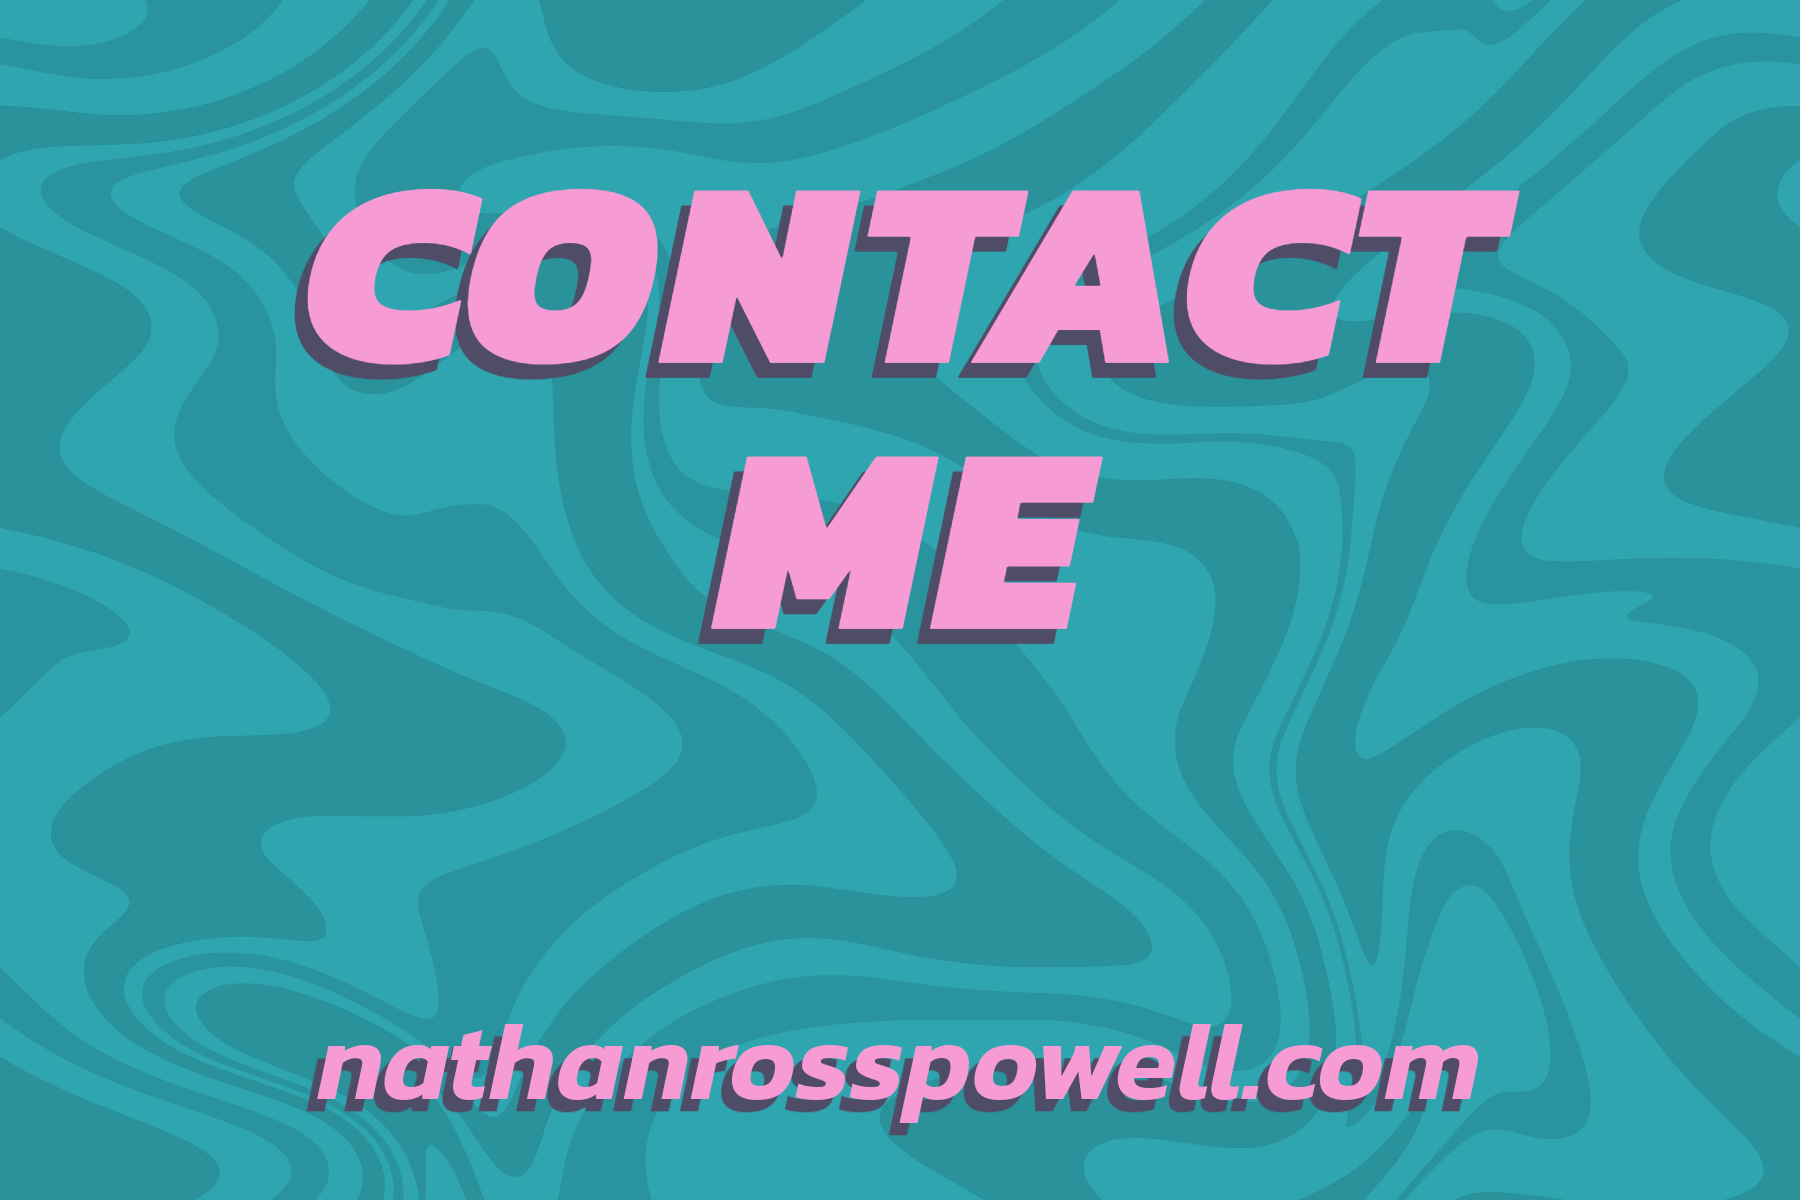
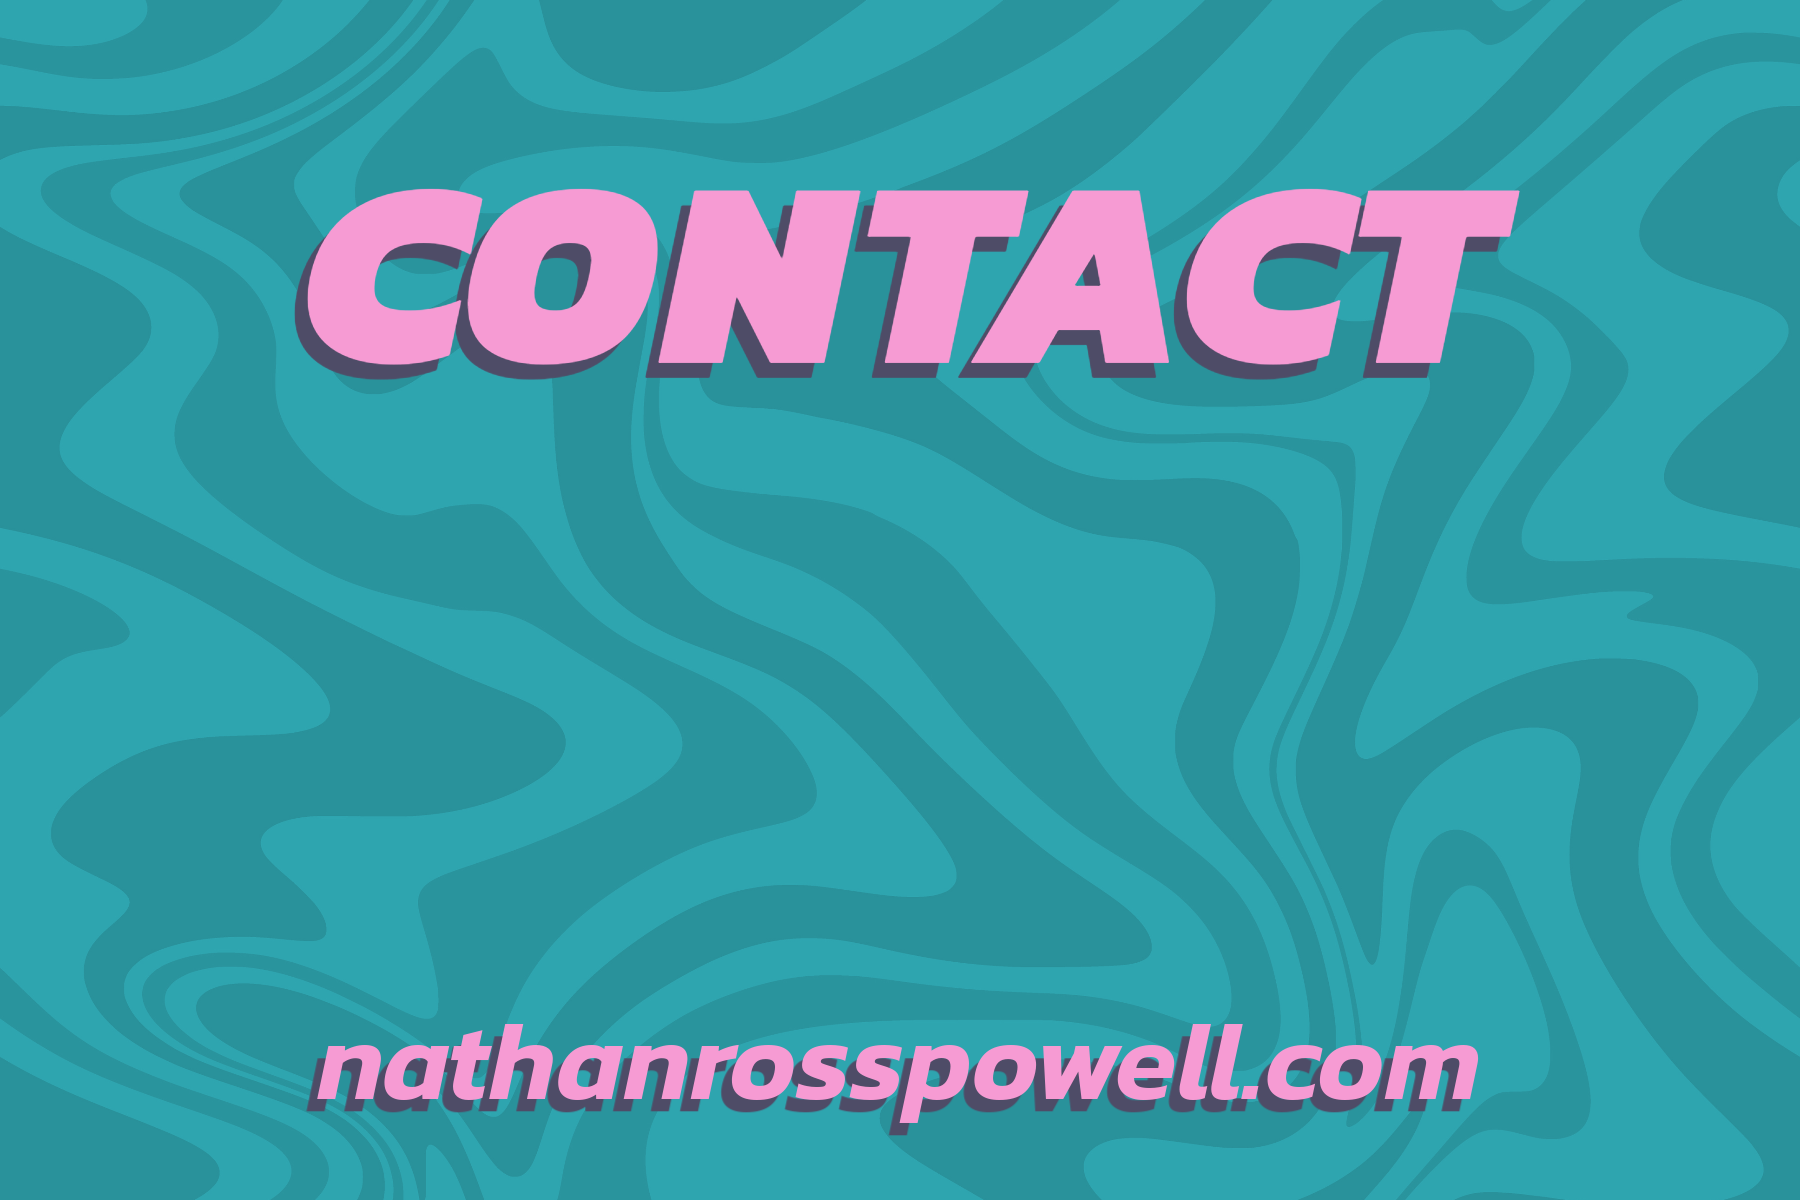
build: fix contact url

Changed region(s): [[0.3733, 0.37, 0.6222, 0.555]]

diff --git a/content/pages/contacts/index.md b/content/pages/contacts/index.md
@@ -1,5 +1,5 @@
 ---
-title: "Contact me"
+title: "Contact"
 template: "page"
 socialImage: "./contact-me.png"
 ---
